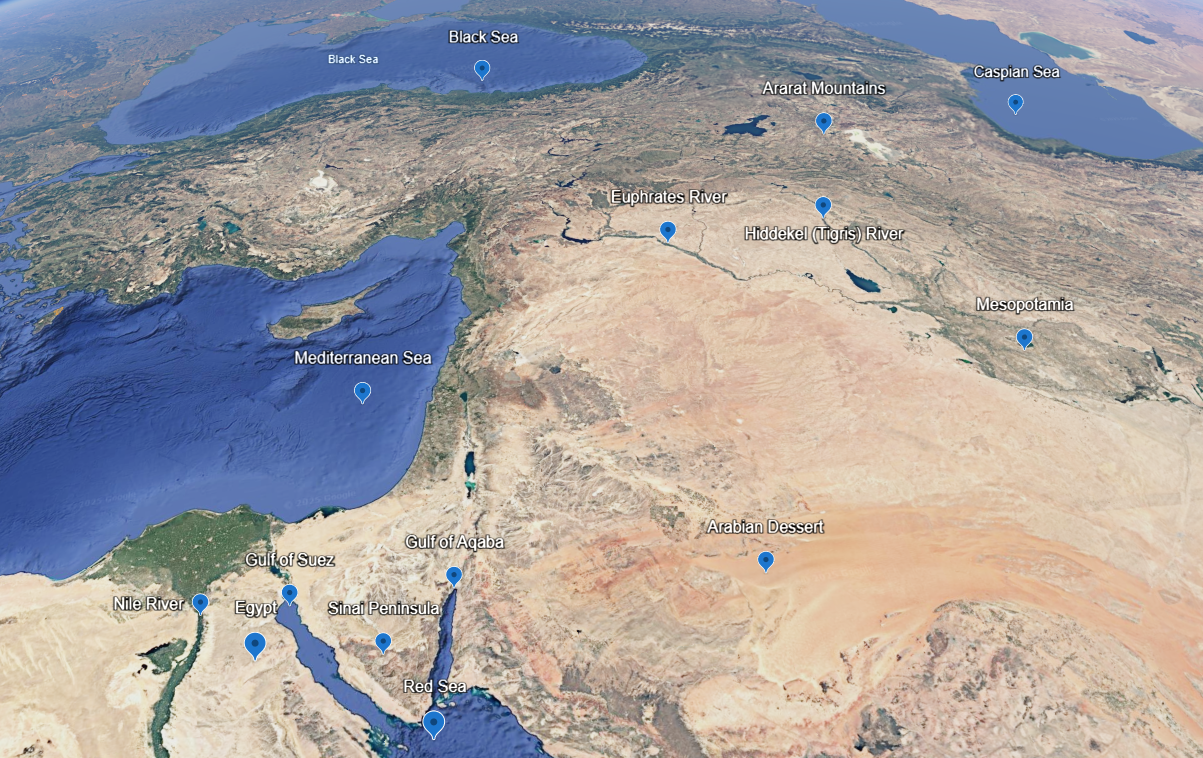
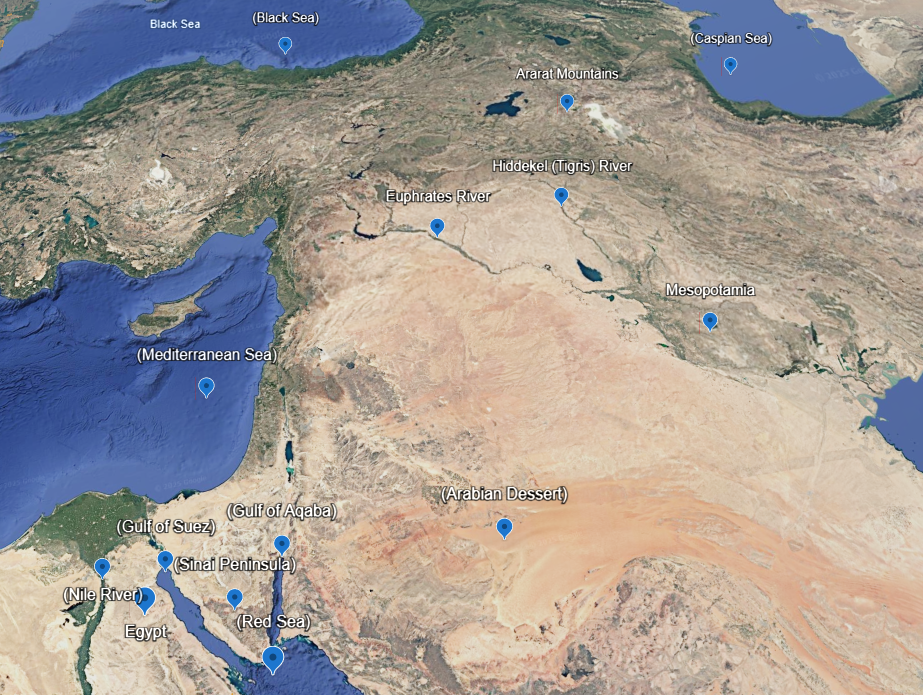
map

diff --git a/docs/The_Old_Testament/Genesis/Chapter_002.md b/docs/The_Old_Testament/Genesis/Chapter_002.md
@@ -1,3 +1,11 @@
 # CHAPTER 2
 
 1. Thus
+
+
+```{figure} ./../../../imgs/Old/Genesis/Chapter_002/map.png
+---
+name: map_genesis
+---
+A river flowed out of Eden and became four main branches, two of which are known with certainty: the Tigris, called Hiddekel in the Bible, and the Euphrates. The map above shows the present course of these two rivers. What is today called the Near East is in the center of this map and is bounded roughly by five bodies of water: the Mediterranean Sea, the Black Sea, the Caspian Sea, the Persian Gulf, and the Red Sea. Parentheses around these and certain other names on this map indicate names that through the centuries came to be used for these geographic features. Through generally barren -- with mountains, hills, and deserts -- the Near East contains a well-watered ergion from which arose the first great civilizations of the world. Because of its abundant vegetation and its shape, this region has been called the Fertile Crescent; it extends from the Persian Gulf, which is the mouth of the mouth of the Tigris and Euphrates rivers, northwestward before curving south along the coast of the Mediterranean Sea toward the Nile Delta. A map of the Fertile Crescent, tracing the route of Abraham on his journey to Canaan, is on page xyz. In the mountains of Ararat (see above) Noah's ark came to rest after the Flood. A location in these mountains traditionally associated with this event is shown on page xyz.
+```
